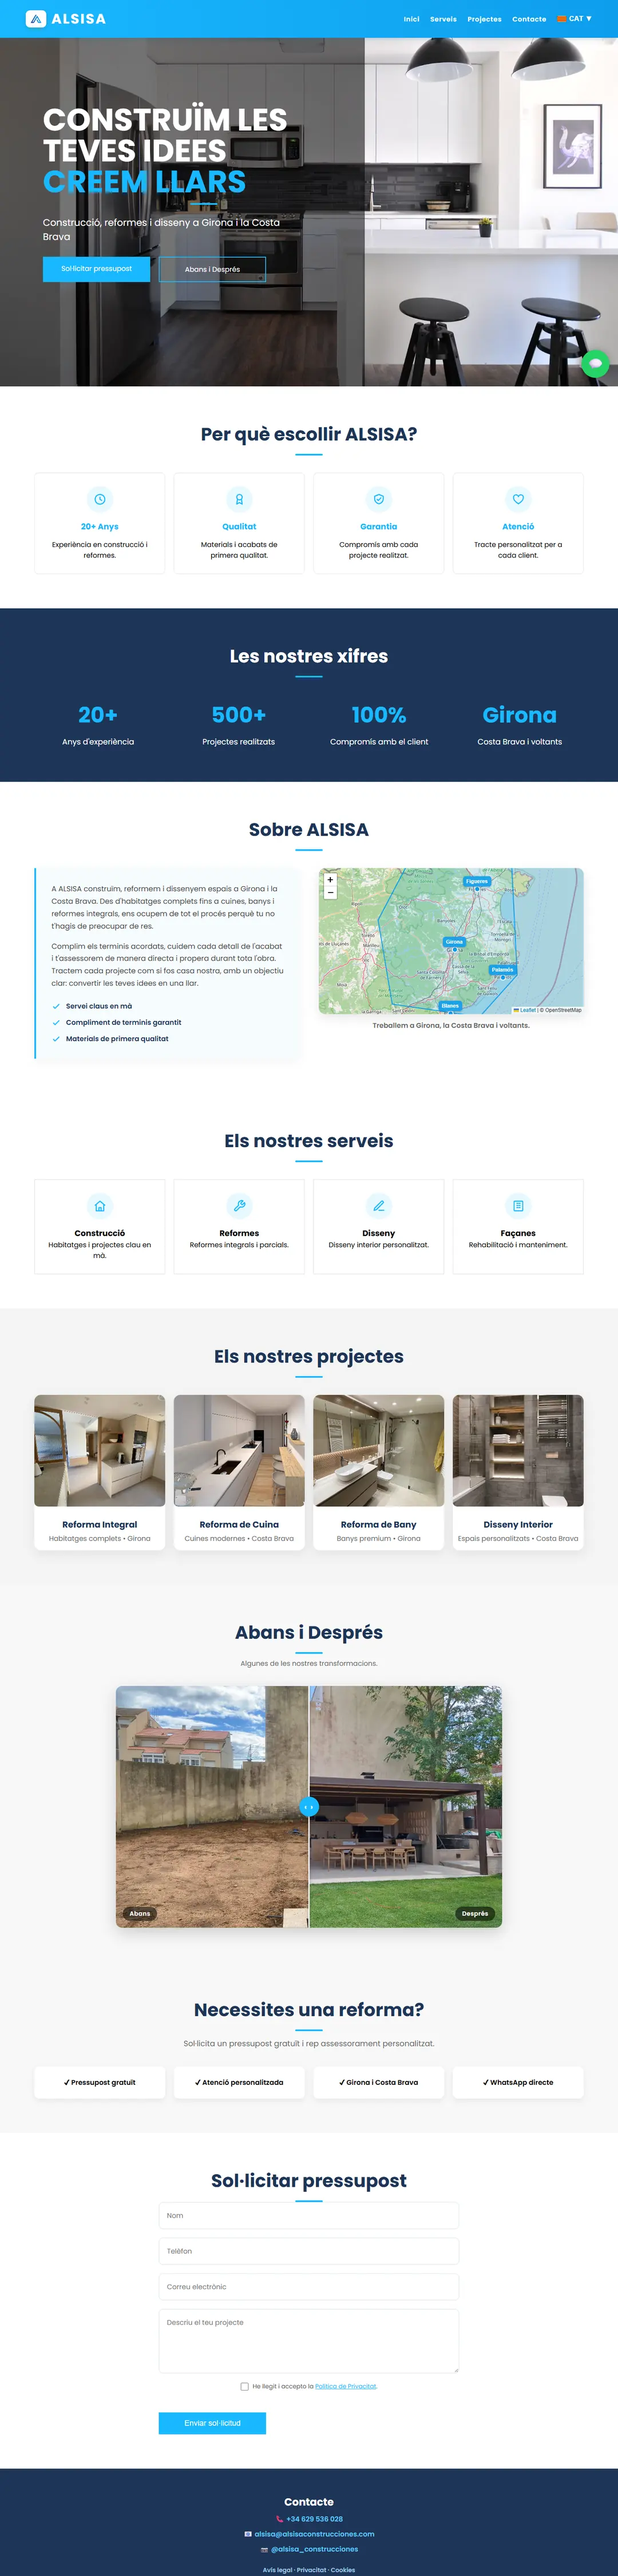
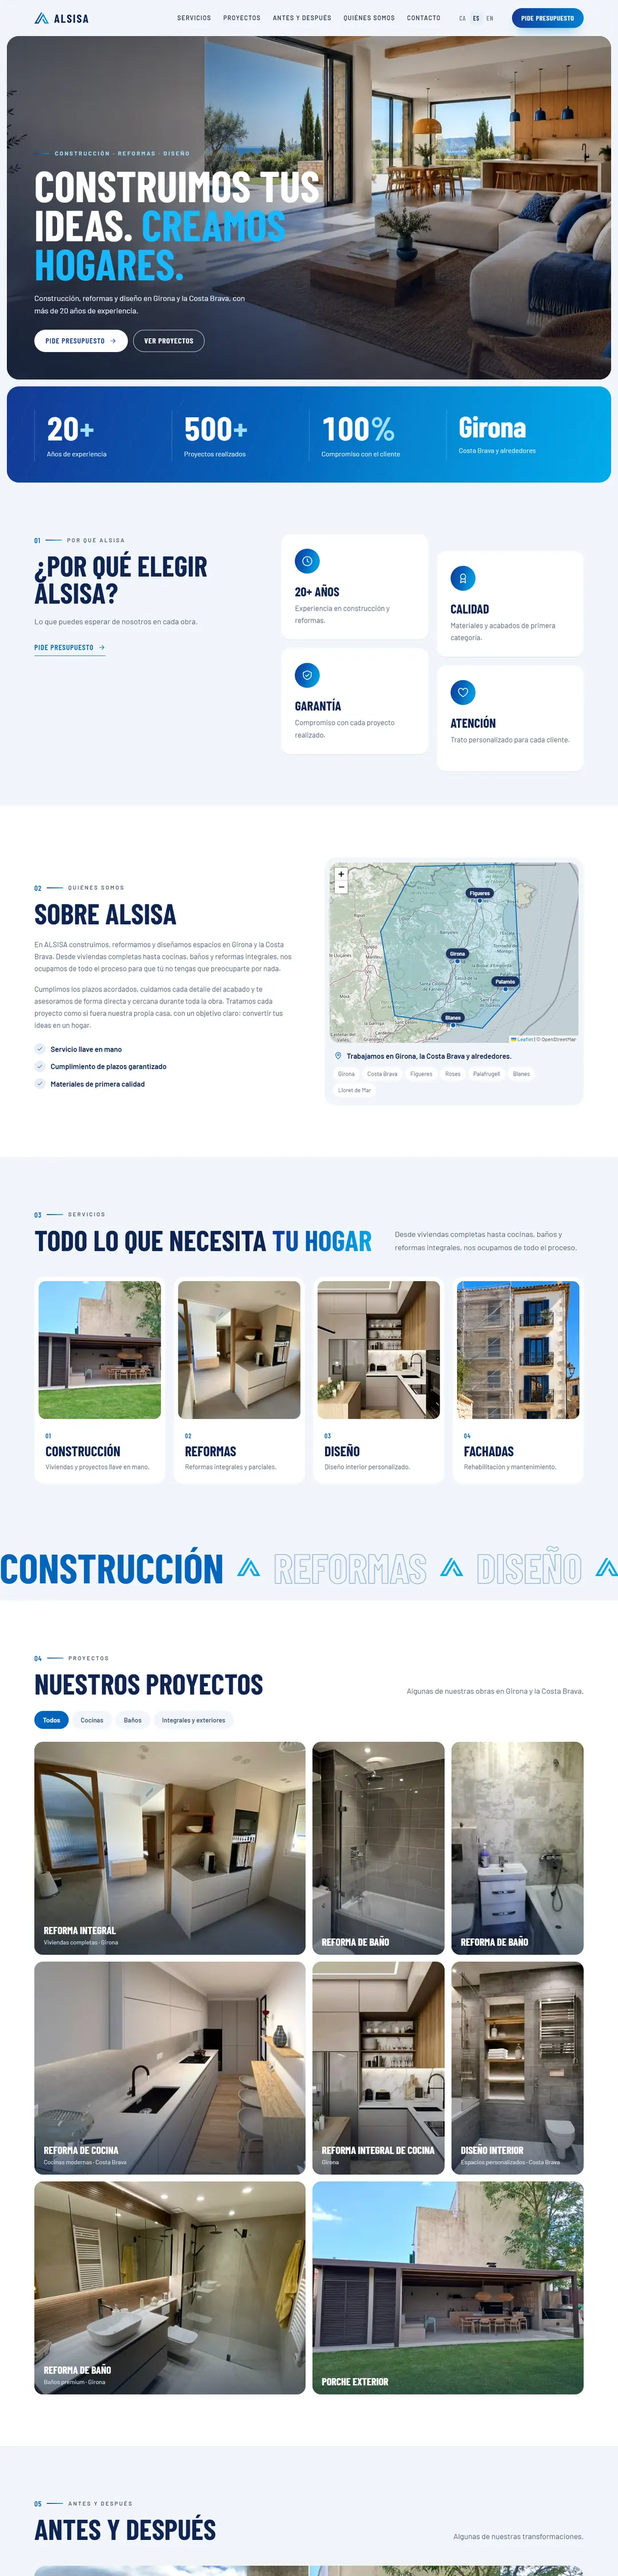
Portada: capturas nuevas de ALSISA (web nueva) por idioma — es / ca / en, ru → es; el marco y la mini-ventana de la opinión cambian con el idioma

diff --git a/index.html b/index.html
@@ -288,7 +288,7 @@
                 <article class="work">
                     <a class="work-frame" href="https://alsisaconstrucciones.es" target="_blank" rel="noopener" style="--dur:10s">
                         <div class="browser-bar"><span class="dot-r"></span><span class="dot-y"></span><span class="dot-g"></span><span class="browser-url">alsisaconstrucciones.es</span></div>
-                        <div class="work-shot"><img src="images/work-alsisa.webp" srcset="images/work-alsisa-480.webp 480w, images/work-alsisa.webp 720w, images/work-alsisa-1080.webp 1080w" sizes="(max-width: 640px) calc(100vw - 80px), (max-width: 1100px) 700px, 360px" width="720" height="3000" loading="lazy" decoding="async" alt="Web de ALSISA Construcciones" data-i18n-alt="pj_alsisa_alt"></div>
+                        <div class="work-shot"><img src="images/work-alsisa.webp" srcset="images/work-alsisa-480.webp 480w, images/work-alsisa.webp 720w, images/work-alsisa-1080.webp 1080w" sizes="(max-width: 640px) calc(100vw - 80px), (max-width: 1100px) 700px, 360px" width="720" height="3000" loading="lazy" decoding="async" alt="Web de ALSISA Construcciones" data-i18n-alt="pj_alsisa_alt" data-shot="work-alsisa" data-shot-langs="ca en" data-shot-hd></div>
                     </a>
                     <div class="work-info">
                         <h4 class="work-name">ALSISA</h4>
@@ -444,7 +444,7 @@
         </div>
         <a class="review-site" href="https://alsisaconstrucciones.es" target="_blank" rel="noopener" aria-label="ALSISA Construcciones — alsisaconstrucciones.es">
             <div class="browser-bar"><span class="dot-r"></span><span class="dot-y"></span><span class="dot-g"></span><span class="browser-url">alsisaconstrucciones.es</span></div>
-            <div class="review-shot"><img src="images/work-alsisa-480.webp" width="480" height="2000" loading="lazy" decoding="async" alt=""></div>
+            <div class="review-shot"><img src="images/work-alsisa-480.webp" width="480" height="2000" loading="lazy" decoding="async" alt="" data-shot="work-alsisa" data-shot-langs="ca en" data-shot-mini></div>
         </a>
     </figure>
     <!-- </portada:opiniones> -->

diff --git a/script.js b/script.js
@@ -828,6 +828,20 @@ function changeLanguage(lang, initial){
     el.textContent = el.hasAttribute("data-short") ? lang.toUpperCase() : labels[lang];
   });
 
+  // Capturas de proyectos por idioma (data-shot): la del idioma o, si no la hay, la española
+  document.querySelectorAll("img[data-shot]").forEach(function(img){
+    var base = img.getAttribute("data-shot");
+    var langs = (img.getAttribute("data-shot-langs") || "").split(" ");
+    var c = langs.indexOf(lang) > -1 ? base + "-" + lang : base;
+    if(img.hasAttribute("data-shot-mini")){
+      var s = "images/" + c + "-480.webp";
+      if(img.getAttribute("src") !== s) img.src = s;
+      return;
+    }
+    var ss = "images/" + c + "-480.webp 480w, images/" + c + ".webp 720w" + (img.hasAttribute("data-shot-hd") ? ", images/" + c + "-1080.webp 1080w" : "");
+    if(img.getAttribute("srcset") !== ss){ img.srcset = ss; img.src = "images/" + c + ".webp"; }
+  });
+
   // Marcar la opción activa en el menú
   document.querySelectorAll(".lang-opt").forEach(function(opt){
     opt.classList.toggle("active", opt.getAttribute("data-lang") === lang);

diff --git a/.fuente/portada/portada.py b/.fuente/portada/portada.py
@@ -105,18 +105,29 @@ def comprobar(proy, opin):
 
 # ---------------------------------------------------------------- картинки
 
+def idiomas_captura(p):
+    """captura_idiomas: {"es": url, "ca": url, …} — свой скриншот на каждом языке главной (нет языка — берётся es)."""
+    return [x for x in (p.get("captura_idiomas") or {}) if x != "es"]
+
+
+def nombre_captura(c, lang):
+    return c if lang == "es" else f"{c}-{lang}"
+
+
 def captura(p):
-    """Скриншот сайта проекта: Edge без окна, окно 1440×900, верх страницы 1440×6000 → capturas\\<captura>.png"""
-    url = p.get("captura_url") or p["url"]
-    if not url.startswith("http"):
-        sys.exit(f"{p['id']}: для скриншота нужна полная ссылка — поле captura_url")
+    """Скриншот сайта проекта: Edge без окна, окно 1440×900, верх страницы 1440×6000 → capturas\\<captura>.png
+    (с captura_idiomas — по одному на язык: <captura>.png для es, <captura>-<язык>.png для остальных)"""
+    urls = p.get("captura_idiomas") or {"es": p.get("captura_url") or p["url"]}
     node = shutil.which("node")
     if not node:
         sys.exit("Нет Node.js — скриншот не снять. Положи PNG сам в capturas\\ (см. инструкцию).")
     CAPTURAS.mkdir(exist_ok=True)
-    out = CAPTURAS / f"{p['captura']}.png"
-    print(f"Скриншот {url} …")
-    subprocess.run([node, str(AQUI / "captura.mjs"), url, str(out), p.get("captura_css", "")], check=True)
+    for lang, url in urls.items():
+        if not url.startswith("http"):
+            sys.exit(f"{p['id']}: для скриншота нужна полная ссылка — поле captura_url / captura_idiomas")
+        out = CAPTURAS / f"{nombre_captura(p['captura'], lang)}.png"
+        print(f"Скриншот {url} …")
+        subprocess.run([node, str(AQUI / "captura.mjs"), url, str(out), p.get("captura_css", "")], check=True)
 
 
 def quitar_vacios(im, minimo=400, deja=160):
@@ -158,6 +169,11 @@ def imagenes(proy, opin):
     nombres = {p["captura"] for g in ("reales", "ejemplos") for p in proy[g]}
     vacios = {p["captura"] for g in ("reales", "ejemplos") for p in proy[g] if p.get("captura_vacios")}
     nombres |= {o["web"]["captura"] for o in opin.get("opiniones", []) if o.get("web")}
+    for g in ("reales", "ejemplos"):
+        for p in proy[g]:
+            nombres |= {nombre_captura(p["captura"], x) for x in idiomas_captura(p)}
+            if p.get("captura_vacios"):
+                vacios |= {nombre_captura(p["captura"], x) for x in idiomas_captura(p)}
     for c in sorted(nombres):
         png = CAPTURAS / f"{c}.png"
         dest = IMAGES / f"{c}.webp"
@@ -190,13 +206,15 @@ def medida(nombre):
         return (720, 3000)
 
 
-def img(c, alt, k, sizes):
+def img(c, alt, k, sizes, langs=()):
     w, h = medida(f"{c}.webp")
     src = [f"images/{c}-480.webp 480w", f"images/{c}.webp 720w"]
-    if (IMAGES / f"{c}-1080.webp").exists():
+    hd = (IMAGES / f"{c}-1080.webp").exists()
+    if hd:
         src.append(f"images/{c}-1080.webp 1080w")
+    shot = (f' data-shot="{c}" data-shot-langs="{" ".join(langs)}"' + (" data-shot-hd" if hd else "")) if langs else ""
     return (f'<img src="images/{c}.webp" srcset="{", ".join(src)}" sizes="{sizes}" width="{w}" height="{h}" '
-            f'loading="lazy" decoding="async" alt="{esc(alt)}" data-i18n-alt="pj_{k}_alt">')
+            f'loading="lazy" decoding="async" alt="{esc(alt)}" data-i18n-alt="pj_{k}_alt"{shot}>')
 
 
 # ---------------------------------------------------------------- HTML: Trabajos
@@ -208,7 +226,7 @@ def tarjeta(p, demo, sizes):
     return f'''<article class="work">
     <a class="work-frame" href="{esc(p["url"])}"{EXT} style="--dur:10s">
         <div class="browser-bar"><span class="dot-r"></span><span class="dot-y"></span><span class="dot-g"></span><span class="browser-url">{esc(p["dominio"])}</span></div>
-        <div class="work-shot">{img(p["captura"], p["alt"]["es"], k, sizes)}</div>
+        <div class="work-shot">{img(p["captura"], p["alt"]["es"], k, sizes, idiomas_captura(p))}</div>
     </a>
     <div class="work-info">
         <h4 class="work-name">{esc(p["nombre"])}</h4>
@@ -282,10 +300,12 @@ def html_opiniones(opin):
         if o.get("web"):
             w = o["web"]
             ww, hh = medida(f'{w["captura"]}-480.webp')
+            langs = [x for x in ("ca", "en", "ru") if (IMAGES / f'{w["captura"]}-{x}-480.webp').exists()]
+            mini = f' data-shot="{w["captura"]}" data-shot-langs="{" ".join(langs)}" data-shot-mini' if langs else ""
             web = f'''
 <a class="review-site" href="{esc(w["url"])}"{EXT} aria-label="{esc((o.get("empresa") or o["autor"]) + " — " + w["dominio"])}">
     <div class="browser-bar"><span class="dot-r"></span><span class="dot-y"></span><span class="dot-g"></span><span class="browser-url">{esc(w["dominio"])}</span></div>
-    <div class="review-shot"><img src="images/{w["captura"]}-480.webp" width="{ww}" height="{hh}" loading="lazy" decoding="async" alt=""></div>
+    <div class="review-shot"><img src="images/{w["captura"]}-480.webp" width="{ww}" height="{hh}" loading="lazy" decoding="async" alt=""{mini}></div>
 </a>'''
         cuerpo = f'''<div class="review-body">
 {sangria(estrellas(o), 4)}
